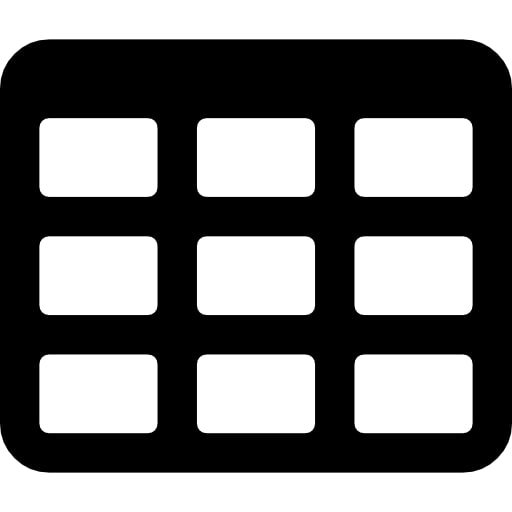
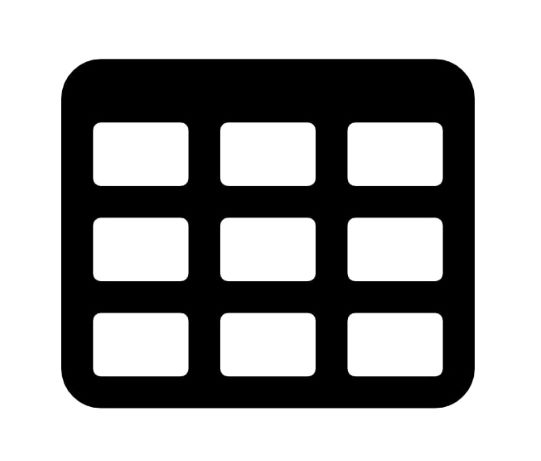
switching to design mood

diff --git a/Project Code Framework/GUI/Output.cpp b/Project Code Framework/GUI/Output.cpp
@@ -140,7 +140,7 @@ void Output::CreateDesignToolBar() const
 	MenuItemImages[ITM_CONNECTION] = "Images\\Gates\\connection.jpg";
 
 
-	MenuItemImages[ITM_LABEL] = "Images\\Menu\\tag.jpg";
+	MenuItemImages[ITM_LABEL] = "Images\\Menu\\tag1.jpg";
 	MenuItemImages[ITM_SELECT] = "Images\\Menu\\Select.jpg";
 	MenuItemImages[ITM_UNSELECT] = "Images\\Gates\\AND_2.jpg";
 	MenuItemImages[ITM_DELETE] = "Images\\Menu\\Delete.jpg";
@@ -175,9 +175,9 @@ void Output::CreateSimulationToolBar() const
 	
 	string MenuItemImages[ITM_SIM_CNT];
 	MenuItemImages[ITM_SIM] = "images\\Menu\\SIMULATE.jpg";
-	MenuItemImages[ITM_TRUTH] = "images\\Gates\\AND_2.jpg";
+	MenuItemImages[ITM_TRUTH] = "images\\Menu\\TruthTable.jpg";
 	MenuItemImages[ITM_VALIDATE] = "images\\Gates\\AND_2.jpg";
-	MenuItemImages[ITM_SWITCH_TO_DESIGN_MODE] = "images\\Gates\\AND_2.jpg";	
+	MenuItemImages[ITM_SWITCH_TO_DESIGN_MODE] = "images\\Menu\\draw.jpg";	
 	
 	//DONE: Prepare image for each menu item and add it to the list
 

diff --git a/Project Code Framework/Design_mode.cpp b/Project Code Framework/Design_mode.cpp
@@ -1,0 +1,42 @@
+#include "Design_mode.h"
+#include "..\Project Code Framework\ApplicationManager.h"
+
+Design_mode::Design_mode(ApplicationManager* pApp) :Action(pApp)
+{
+}
+
+Design_mode::~Design_mode(void)
+{
+}
+
+void Design_mode::ReadActionParameters()
+{
+	//Get a Pointer to the Input / Output Interfaces
+	Output* pOut = pManager->GetOutput();
+	Input* pIn = pManager->GetInput();
+
+	//Print Action Message
+	pOut->PrintMsg("switching to design mood");
+
+
+
+}
+
+void Design_mode::Execute()
+{
+	//Get Center point of the Gate
+	ReadActionParameters();
+	Output* pOut = pManager->GetOutput();
+
+	pOut->ClearDesignToolBar();
+	pOut->CreateDesignToolBar();
+	pOut->ClearStatusBar();
+
+}
+
+void Design_mode::Undo()
+{}
+
+void Design_mode::Redo()
+{}
+

diff --git a/Project Code Framework/Design_mode.h b/Project Code Framework/Design_mode.h
@@ -1,0 +1,28 @@
+#pragma once
+#ifndef Desgin_MODE
+#define  Desgin_MODE
+
+#include "../Project Code Framework/Actions/Action.h"
+
+class Design_mode : public Action
+{
+private:
+	//Parameters for rectangular area to be occupied by the gate
+	int Cx, Cy;	//Center point of the gate
+	int x1, y1, x2, y2;	//Two corners of the rectangluar area
+public:
+	Design_mode(ApplicationManager* pApp);
+	virtual ~Design_mode(void);
+
+	//Reads parameters required for action to execute
+	virtual void ReadActionParameters();
+	//Execute action (code depends on action type)
+	virtual void Execute();
+
+	virtual void Undo();
+	virtual void Redo();
+
+
+};
+
+#endif

diff --git a/Project Code Framework/ApplicationManager.cpp b/Project Code Framework/ApplicationManager.cpp
@@ -27,6 +27,7 @@
 #include "Actions/Simulate_circuit.h"
 #include "Save.h"
 #include "Actions/ChangeSwitchInput.h"
+#include "Design_mode.h"
 
 ApplicationManager::ApplicationManager()
 {
@@ -401,6 +402,10 @@ void ApplicationManager::ExecuteAction(ActionType ActType)
 
 		case Change_Switch:
 			pAct = new ChangeSwitchInput(this);
+			break;
+
+		case DSN_MODE:
+			pAct = new Design_mode(this);
 			break;
 
 		case EXIT:

diff --git a/Project Code Framework/GUI/Input.cpp b/Project Code Framework/GUI/Input.cpp
@@ -129,7 +129,7 @@ ActionType Input::GetUserAction() const
 			case ITM_SIM: return SIMULATE_CIRCUIT;
 			case ITM_TRUTH: return Create_TruthTable;
 			case ITM_VALIDATE: return VALIDATE_CIRCUIT;
-			case ITM_SWITCH_TO_DESIGN_MODE: return SIM_MODE;
+			case ITM_SWITCH_TO_DESIGN_MODE: return DSN_MODE;
 
 			default: return SIM_TOOL;
 			}
